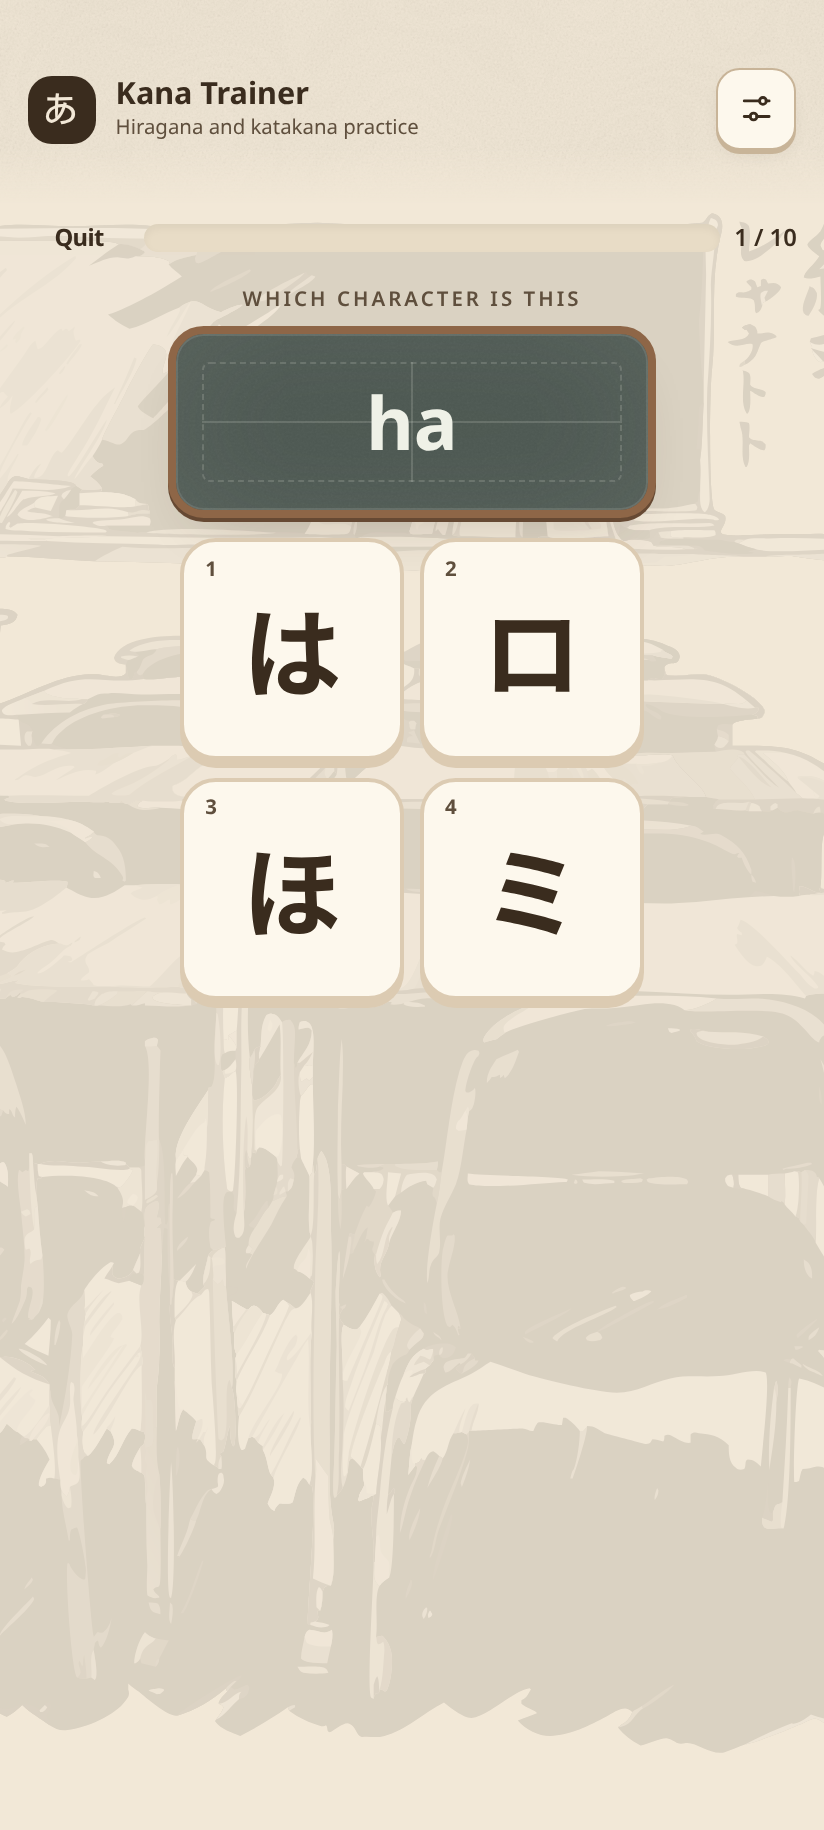
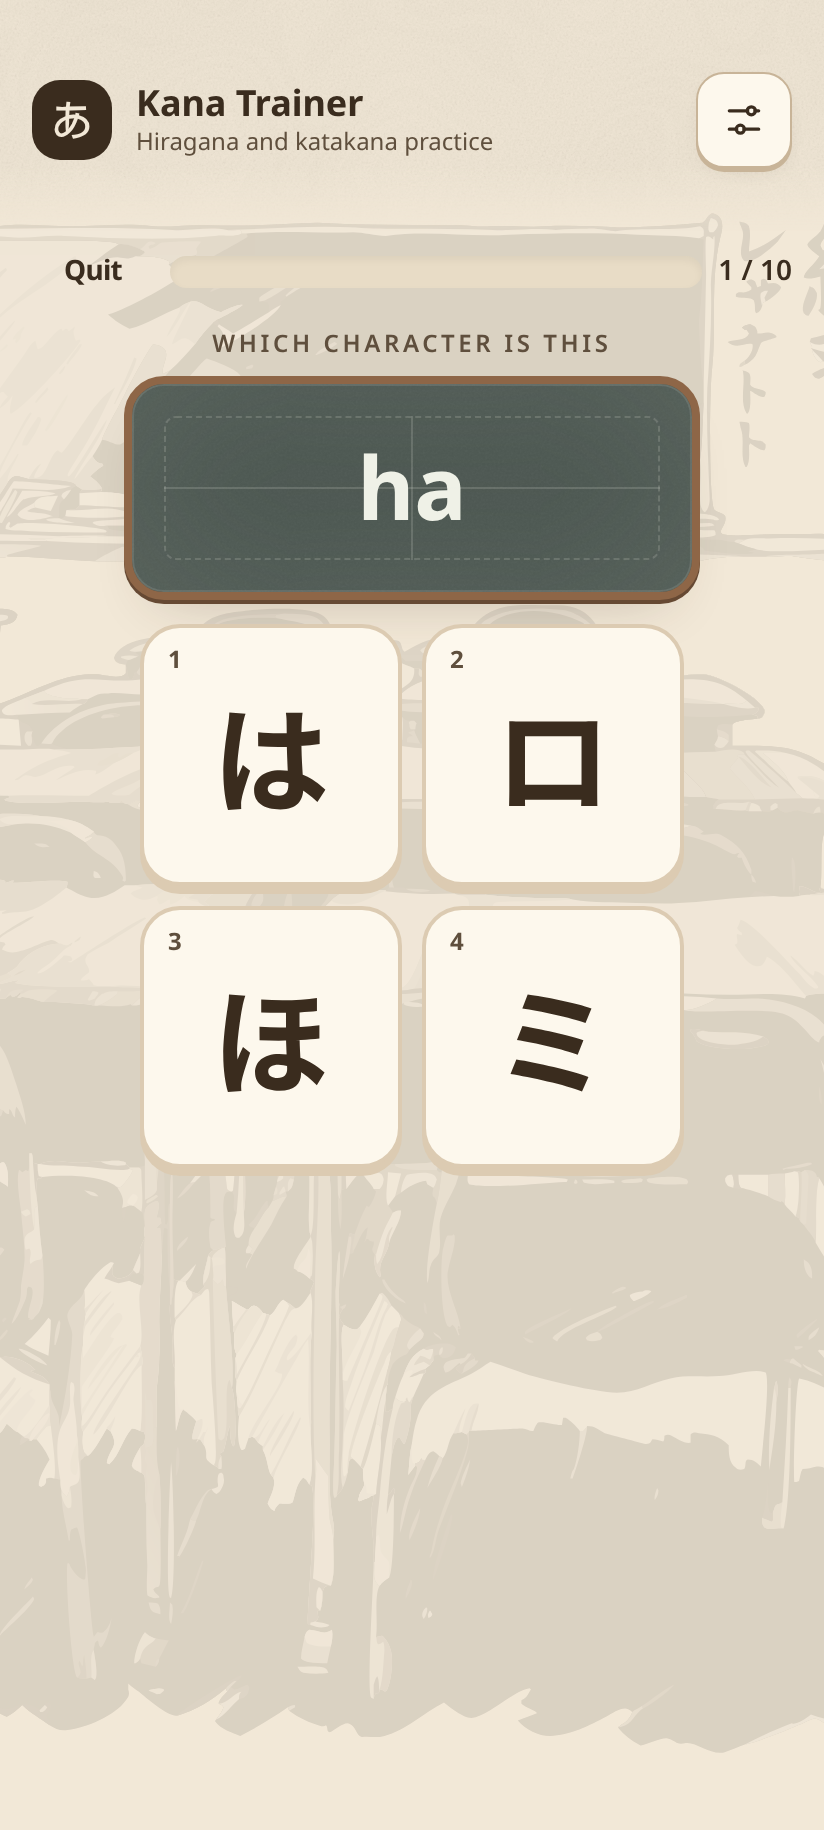
reshoot phone images at 100%.

diff --git a/tools/showcase/showcase.spec.ts b/tools/showcase/showcase.spec.ts
@@ -23,9 +23,9 @@ const MISSED = new Set([3, 7]);
 
 /* The kana grids fill their track at 4.25rem, so at 100% a five character row
    wraps as four plus one. A step of the app zoom shrinks the tracks enough for
-   the whole row to sit on one line. The phone carries the wider chart tiles in
-   a narrow column, so it needs the extra step. */
-const ZOOM: Record<string, number> = { phone: 0.85, tablet7: 1 };
+   the whole row to sit on one line. The phone and the 7 inch tablet stay at
+   100%, so their stills show the app at its default size. */
+const ZOOM: Record<string, number> = { phone: 1, tablet7: 1 };
 
 const DEFAULT_ZOOM = 0.9;
 
